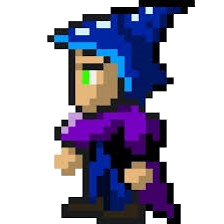
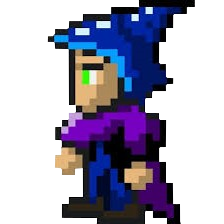
DREHENDER MAGIER + Transparenz ( + richtiges .png)

diff --git a/src/game/Shape.java b/src/game/Shape.java
@@ -1,5 +1,6 @@
 package game;
 
+import java.awt.AlphaComposite;
 import java.awt.Color;
 import java.awt.Graphics2D;
 import java.awt.Image;
@@ -83,11 +84,12 @@ public abstract class Shape
     public Image rotateImage(Image src, double rad){
         int width = src.getWidth(null);
         int height = src.getHeight(null);
-        BufferedImage temp = new BufferedImage(height, width, BufferedImage.TYPE_INT_RGB);
-        Graphics2D g2 = temp.createGraphics();
-        g2.rotate(rad, height / 2, height / 2);
-        g2.drawImage(src, 0, 0, Color.WHITE, null);
-        g2.dispose();
+        BufferedImage temp = new BufferedImage(height, width, BufferedImage.TYPE_INT_ARGB);
+        Graphics2D g2d = temp.createGraphics();
+        
+        g2d.rotate(rad, height / 2, height / 2);
+        g2d.drawImage(src, 0, 0, null , null);
+        g2d.dispose();
         return temp;
     }
 }

diff --git a/src/game/Simulation.java b/src/game/Simulation.java
@@ -20,7 +20,7 @@ public class Simulation {
         // Shot bb = new Shot(500,500,0,0,550,"img/magician1.png");
         // panel.register(bb);
         
-        Ship g = new Ship(100, 30, 0, 0, "img/magician1.png");
+        Ship g = new Ship(100, 30, 0, 0, "img/magician2.png");
         panel.registerPlayer(g);    
         
         // Fenster berechnen und sichtbar setzen

diff --git a/src/game/AnimationPanel.java b/src/game/AnimationPanel.java
@@ -102,7 +102,7 @@ public class AnimationPanel extends JPanel {
      */
     private void fillPanelBackground(Graphics2D g2d) {
         Color c = g2d.getColor();
-        g2d.setColor(Color.BLACK);
+        g2d.setColor(Color.gray);
         Dimension d = getSize();
         g2d.fillRect(0, 0, (int) d.getWidth(), (int) d.getHeight());
         g2d.setColor(c);
